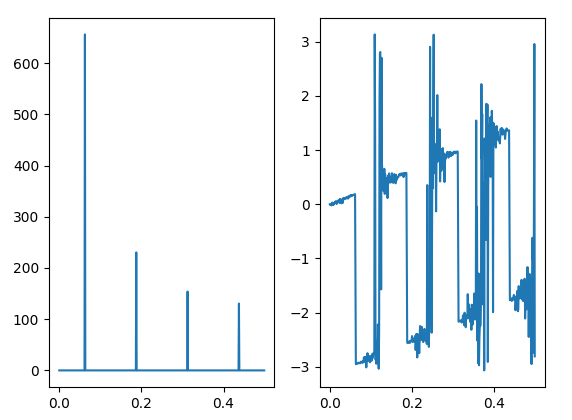
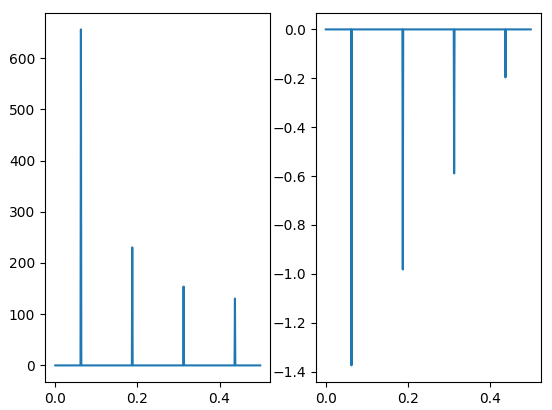
Fixed bug

Changed region(s): [[0.0, 0.0293, 0.9855, 0.9951]]

diff --git a/Practicas/P2/memoria.tex b/Practicas/P2/memoria.tex
@@ -256,6 +256,10 @@ def fft_senial_muestreada(x):
     for k in range(N):
         for j in range(N):
             X[k] = X[k]+x[j]*(W**(k*j))
+            
+        # Debemos filtrar un poco y poner los valores muy bajos a 0, ya que de lo contrario tiene mucha sensibilidad y la grafica del angulo de la parte imaginaria da saltos
+        if X[k] < 10 ** -5:
+            X[k] = 0.0
 
 	# Eliminamos los parentesis del array para que matplotlib pueda leerlo
     X = np.array(X).ravel()
@@ -268,17 +272,10 @@ la salida es la siguiente:
 
 \begin{figure}[H]
 	\centering
-	\includegraphics[scale=0.4]{img/mi_fft.png}
+	\includegraphics[scale=0.55]{img/mi_fft.png}
 \end{figure}
 
-Como se puede observar, cuando se muestra completa, la señal se aprecia igual que en el caso anterior con la transformada propia de python. Pero ahora la gráfica que muestra la parte imaginaria, al haber muchos puntos (el ejemplo es el mismo), se aprecia mucha variabilidad entre las muestras. Si se toman menos muestras (como sería lo normal en una señal muestreada), el resultado sería algo así (se han tomado 80):
-
-\begin{figure}[H]
-	\centering
-	\includegraphics[scale=0.4]{img/mi_fft_smol.png}
-\end{figure}
-
-Por tanto, podríamos decir que la que hemos implementado es más precisa que la que viene implementada en python, ya que esta última no parece estar detectando bien la variabilidad entre unos valores y otros. Para el mismo ejemplo, la transformada de python coge los valores del ángulo de la parte imaginaria sin variaciones, mientras que la que hemos implementado parece que está teniendo en cuenta dichos saltos entre un valor y otro.
+Como se puede observar, la señal que hemos conseguido es igual a la que implementa python, así que hemos creado una transformada de Fourier para señales muestreadas.
 
 \newpage
 

diff --git a/Practicas/P2/transformada_fourier.py b/Practicas/P2/transformada_fourier.py
@@ -11,11 +11,14 @@ def fft_senial_muestreada(x):
         for j in range(N):
             X[k] = X[k]+x[j]*(W**(k*j))
 
+        if X[k] < 10 ** -5:
+            X[k] = 0.0
+
     X = np.array(X).ravel()
 
     return X
 
-x = np.tile([1,1,1,1,1,1,1,1,-1,-1,-1,-1,-1,-1,-1,-1],10)
+x = np.tile([1,1,1,1,1,1,1,1,-1,-1,-1,-1,-1,-1,-1,-1],64)
 
 plt.plot(x)
 plt.show()
@@ -23,11 +26,11 @@ plt.show()
 FFT = fft(x)
 X = fft_senial_muestreada(x)
 
-n = 160
+n = 1024
 f = np.r_[0:0.5:1/n]
 
 plt.subplot(1,2,1)
-plt.plot(f,abs(X[0:80]))
+plt.plot(f,abs(X[0:512]))
 plt.subplot(1,2,2)
-plt.plot(f,np.angle(X[0:80]))
+plt.plot(f,np.angle(X[0:512]))
 plt.show()
